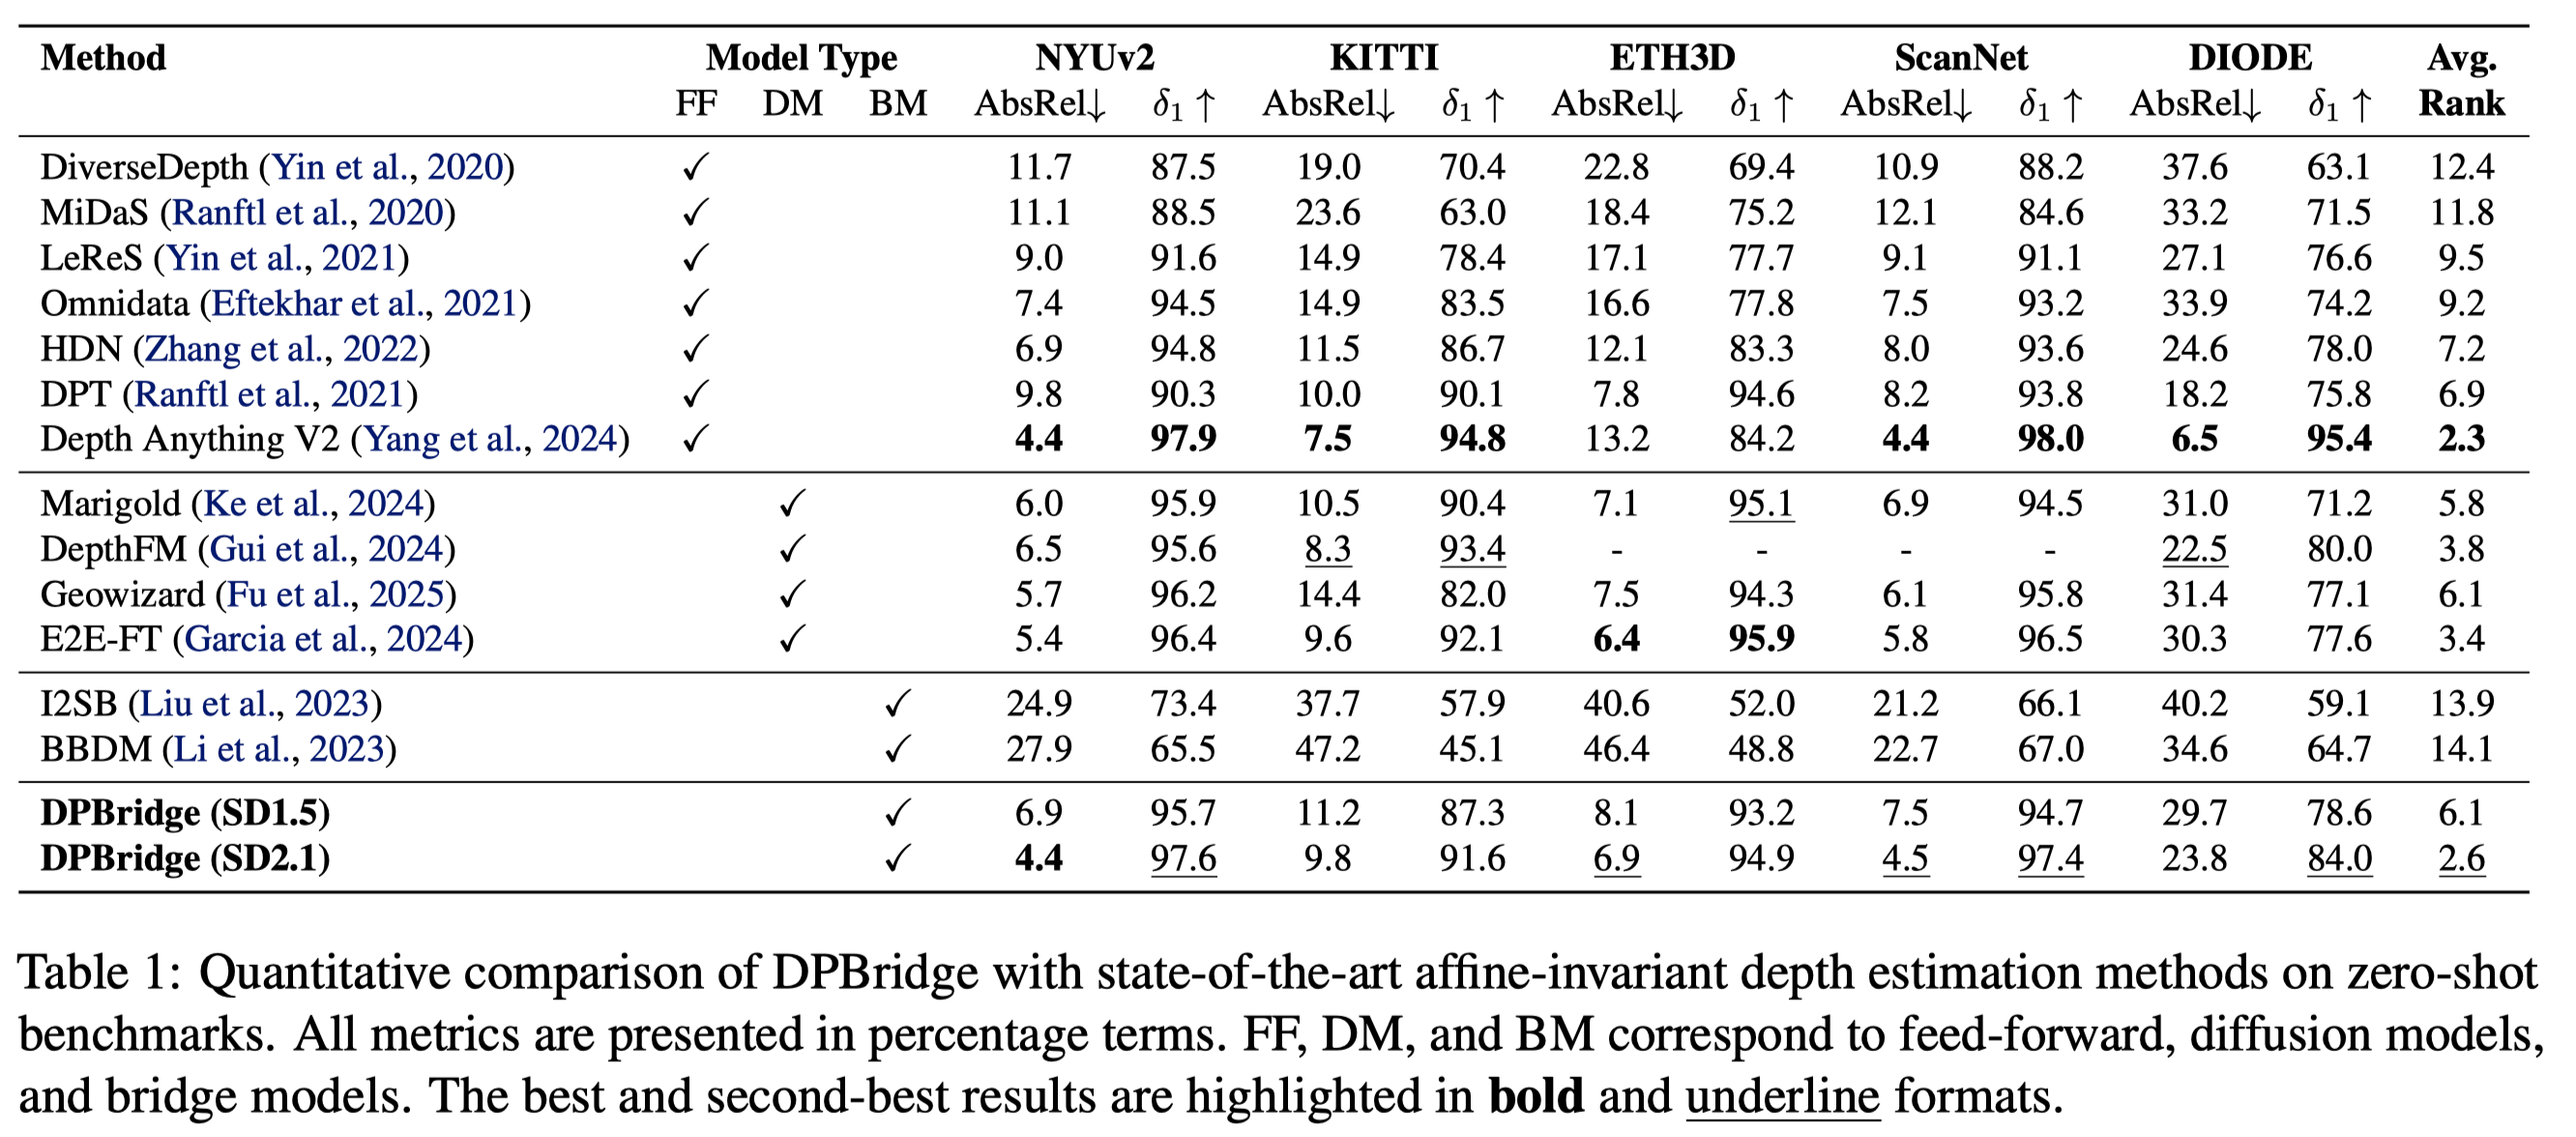
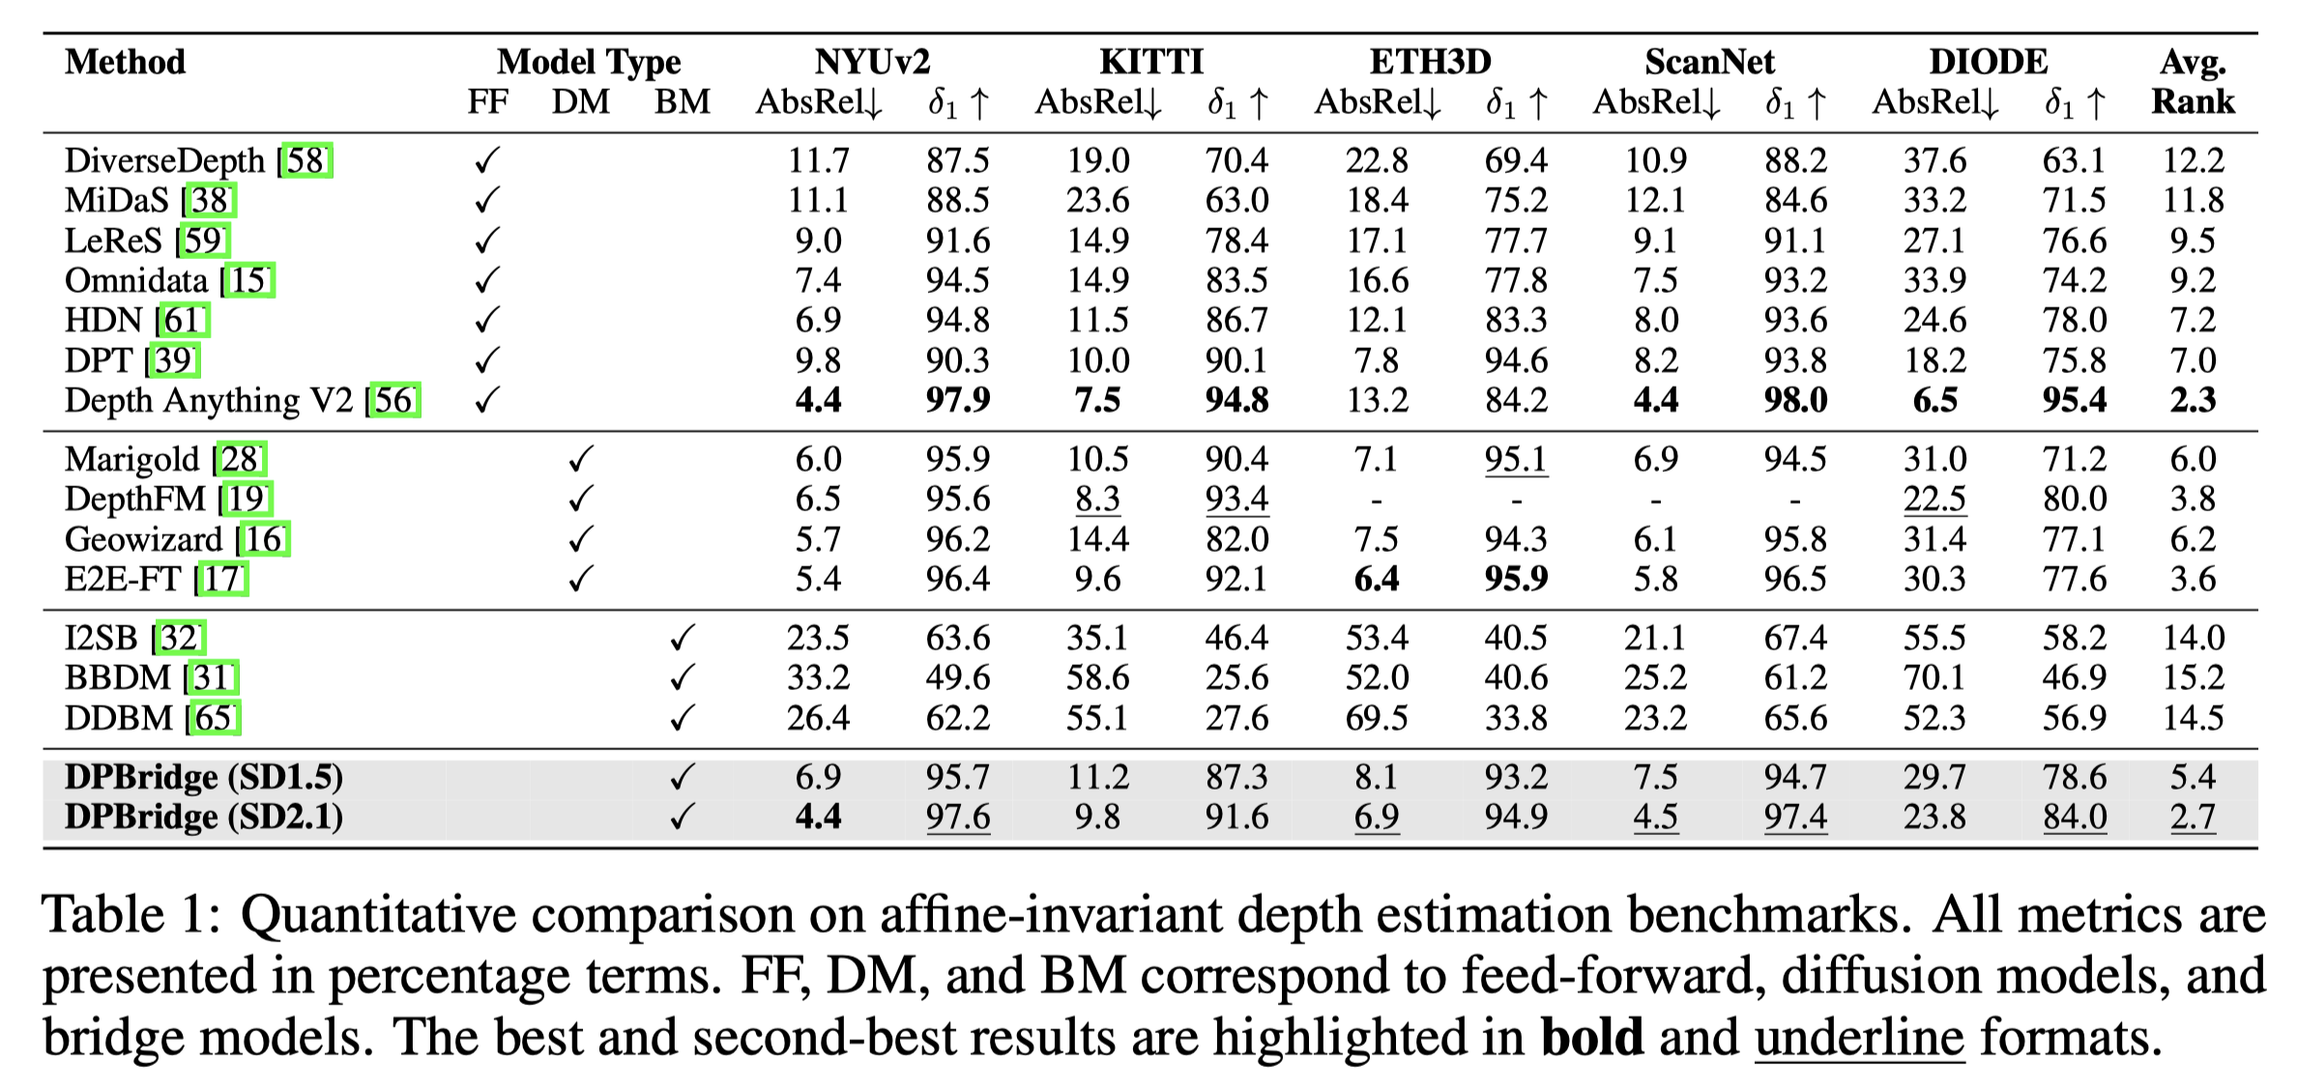
2025.5 v3 update

Changed region(s): [[0.0, 0.0, 0.9966, 0.9912]]

diff --git a/index.html b/index.html
@@ -64,21 +64,21 @@
             <div class="publication-links">
               <!-- PDF Link. -->
               <span class="link-block">
-                <a href="https://arxiv.org/abs/2412.20506"
+                <a href="https://arxiv.org/abs/2412.20506v3"
                    class="external-link button is-normal is-rounded is-dark">
                   <span class="icon">
                       <i class="fas fa-file-pdf"></i>
                   </span>
-                  <span>Paper</span>
+                  <span>arXiv</span>
                 </a>
               </span>
               <span class="link-block">
-                <a href="https://arxiv.org/abs/2412.20506"
+                <a href="https://arxiv.org/pdf/2412.20506v3"
                    class="external-link button is-normal is-rounded is-dark">
                   <span class="icon">
                       <i class="ai ai-arxiv"></i>
                   </span>
-                  <span>arXiv</span>
+                  <span>Paper</span>
                 </a>
               </span>
               <!-- Code Link. -->
@@ -136,7 +136,7 @@
         <h2 class="title is-3">Abstract</h2>
         <div class="content has-text-justified">
           <p>
-            Diffusion models have shown remarkable capabilities in modeling complex data distributions by transforming noise into structured data through stochastic processes. However, when applied to dense prediction tasks whose goal is to capture per-pixel relationships between RGB images and dense signal maps, starting the sampling process from an uninformative Gaussian noise of- ten leads to inefficient sampling and long latency. To overcome these challenges, we propose DPBridge, a generative framework that establishes direct mapping between input RGB images and dense signal maps based on a tractable bridge process. Furthermore, we introduce finetuning strategies to leverage a pretrained large-scale image diffusion backbone, enjoying its rich visual prior knowledge to enable both efficient training and robust generalization. Experiments show that DPBridge achieves competitive performance compared to both feed-forward and diffusion-based approaches across various benchmarks, validating its effectiveness and adaptability.
+            Diffusion models demonstrate remarkable capabilities in capturing complex data distributions and have achieved compelling results in many generative tasks. While they have recently been extended to dense prediction tasks such as depth estimation and surface normal prediction, their full potential in this area remains under-explored. In dense prediction settings, target signal maps and input images are pixel-wise aligned. This makes conventional noise-to-data generation paradigm inefficient, as input images can serve as more informative prior compared to pure noise. Diffusion bridge models, which support data-to-data generation between two general data distributions, offer a promising alternative, but they typically fail to exploit the rich visual priors embedded in large pretrained foundation models. To address these limitations, we integrate diffusion bridge formulation with structured visual priors and introduce DPBridge, the first latent diffusion bridge framework for dense prediction tasks. Our method presents three key contributions: (1) a tractable reverse transition kernel for diffusion bridge process, enabling maximum likelihood training scheme for better compatibility with pretrained backbones; (2) a distribution-aligned normalization technique to mitigate the discrepancies between the bridge and standard diffusion processes; and (3) an auxiliary image consistency loss to preserve fine-grained details. Experiments across extensive benchmarks validate that our method consistently achieves superior performance, demonstrating its effectiveness and generalization capability under different scenarios.
           </p>
         </div>
       </div>
@@ -225,6 +225,16 @@
         <div class="column is-full-width">
 
           <h2 class="title is-3">Qualitative Results</h2>
+
+          <h3 class="title is-4">Depth</h3>
+          <div class="publication-qualitative">
+            <img src="./static/images/visual/depth.png">
+          </div>
+
+          <h3 class="title is-4">Normal</h3>
+          <div class="publication-qualitative">
+            <img src="./static/images/visual/normal.png">
+          </div>
 
           <h3 class="title is-4">Segmentation</h3>
           <div class="publication-qualitative">
